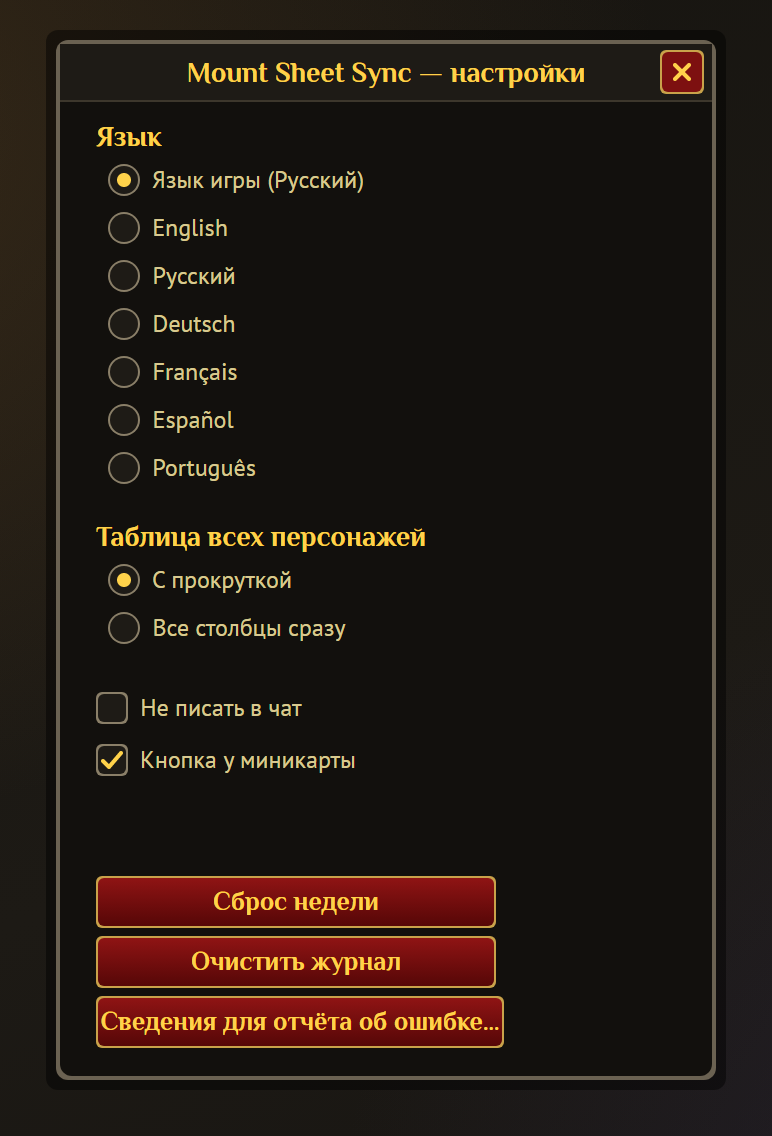
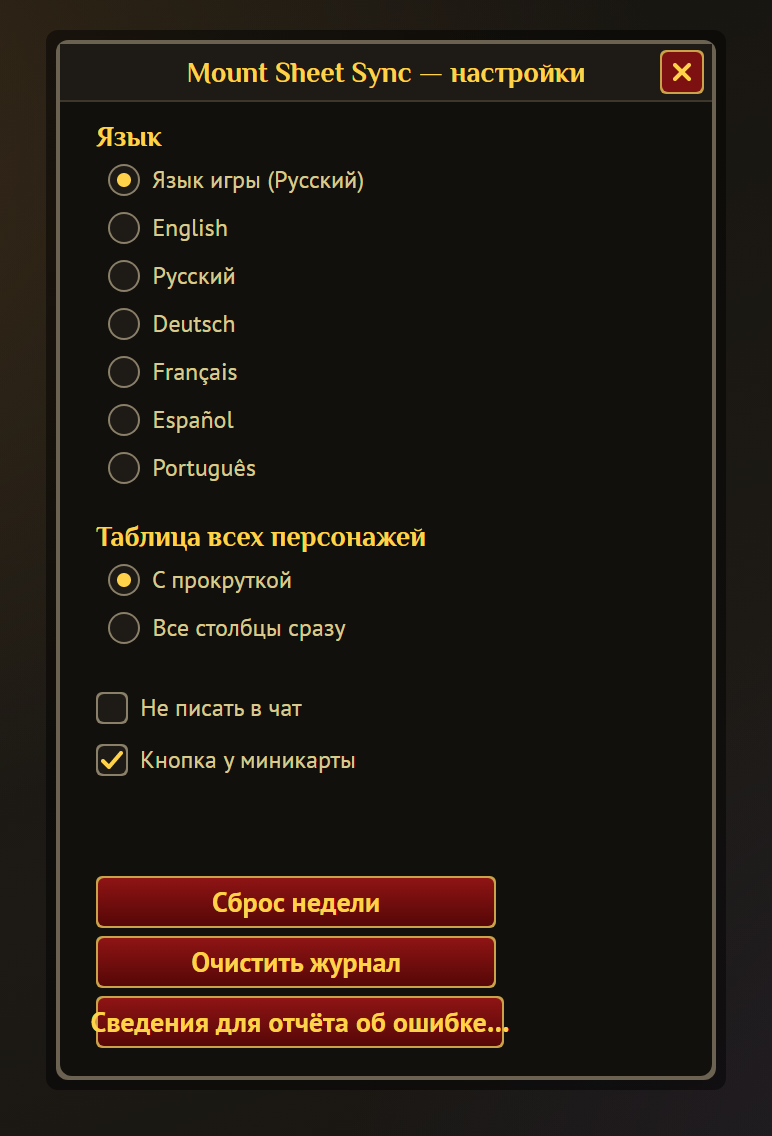
Crisper buttons and bottom line; the line follows the program state
Philosopher Bold at 13 px has thin strokes that blurred in game ("K", "t" on
the red button). Buttons and tabs now use PT Sans Bold 14 like the rest of
the window; Philosopher stays in headings. The small font is 12 px instead of
11. The bottom line is rebuilt from the program state whenever the window is
shown or the language changes, instead of only when the window was created,
and the README pictures no longer show the offline look on the usual hint.

Changed region(s): [[0.1244, 0.8935, 0.6528, 0.9243], [0.2487, 0.8319, 0.5285, 0.8627], [0.2798, 0.7702, 0.4974, 0.8011]]

diff --git a/tools/tests/test_offline.py b/tools/tests/test_offline.py
@@ -85,6 +85,13 @@ def window_bits(L, g):
     return broker, (str(hint._text) if hint is not None else None), tip
 
 
+def hint_font():
+    win = g.MountSheetSyncFrame
+    regs = [g.ALL_REGIONS[i] for i in range(1, len(g.ALL_REGIONS) + 1)]
+    small = [r for r in regs if r._type == "FontString" and r._font == "MSSFontSmall" and r._parent is not None and r._parent._uid == win._uid]
+    return small[0]._fontObject if small else None
+
+
 def first_kill_chat(L, g):
     before = len(g.CHAT)
     g.Fire("ENCOUNTER_END", 2423, "Тюремщик", 14, 20, 1)
@@ -112,7 +119,8 @@ check("Data Broker tooltip: one grey offline line, the click hints stay last",
 check("window bottom line: offline, kills remembered", hint is not None and hint.startswith("Офлайн") and "запоминаются" in hint, hint)
 icon = L.eval("rawget")(g.MountSheetSyncFrame, "offlineIcon")
 check("…and it stands out: a warning icon before it, bold orange text with a shadow",
-      icon is not None and str(icon._texture).endswith("UI-Dialog-Icon-AlertNew") and g.MSSFontWarn._shadowOffset is not None, icon and icon._texture)
+      icon is not None and icon._shown and str(icon._texture).endswith("UI-Dialog-Icon-AlertNew") and str(hint_font()) == str(g.MSSFontWarn)
+      and g.MSSFontWarn._shadowOffset is not None, icon and icon._texture)
 check("hover: why (addons can't go online) and when it is checked (login, /reload)",
       tip is not None and tip[0] == "Работа без программы" and any("/reload" in t and "сохранениях игры" in t for t in tip), tip)
 
@@ -125,7 +133,8 @@ check("first kill: the usual «goes to the sheet when you log out…» hint", an
 broker, hint, tip = window_bits(L, g)
 check("no offline line in the tooltip", not any("Офлайн" in t for t in broker), broker)
 check("window bottom line: the usual hint, no hover", hint is not None and hint.startswith("Отметки попадают") and tip is None, (hint, tip))
-check("…quiet: no warning icon", L.eval("rawget")(g.MountSheetSyncFrame, "offlineIcon") is None)
+quiet_icon = L.eval("rawget")(g.MountSheetSyncFrame, "offlineIcon")
+check("…quiet: no warning icon, the small grey font", (quiet_icon is None or not quiet_icon._shown) and str(hint_font()) == str(g.MSSFontSmall))
 
 # ---- the program runs, but has no sheet yet
 L, g, ns, _ = new_game(mark(NOW - 10, sheet=False))

diff --git a/tools/tests/test_addon_left.py b/tools/tests/test_addon_left.py
@@ -533,8 +533,8 @@ end
 MountSheetSyncSheet.generated = MountSheetSyncSheet.generated + 1
 MSS_NS.OnChange()""")
 g.RunTimers()
-screen_hint = [x for x in regions("FontString") if under_window(x) and x._text == ns.L.window_offline][0]
-screen_hint.SetText(screen_hint, ns.L.window_hint)
+L.execute("MSS_SCREEN_STATE_SAVED = MSS_NS.ProgramState; MSS_NS.ProgramState = function() return 'online' end")
+win.ShowProgramState()   # the pictures show a running program: the quiet bottom line
 tabs[0].MockClick(tabs[0]); g.RunTimers()
 dump_layout(win, OUT_LAYOUT)
 LAYOUT_DIR = os.path.dirname(os.path.abspath(OUT_LAYOUT))
@@ -600,7 +600,8 @@ sf = g.MountSheetSyncSettingsFrame
 check("settings window opens for the screenshots", sf is not None and sf._shown)
 dump_layout(sf, os.path.join(LAYOUT_DIR, "layout_settings.json"))
 sf.Hide(sf)
-screen_hint.SetText(screen_hint, ns.L.window_offline)
+L.execute("MSS_NS.ProgramState = MSS_SCREEN_STATE_SAVED")
+win.ShowProgramState()
 L.execute(r"""
 MountSheetSyncSheet.resetAt, MSS_NS.ProgramState = SCREEN_RESET, SCREEN_STATE
 MSS_NS.UsesListWords = function() return false end

diff --git a/docs/reference/decisions.md b/docs/reference/decisions.md
@@ -86,6 +86,6 @@
 - **Данные каталога в аддоне — отложено, не отвергнуто** (05.11.2026): пока без программы аддон остаётся журналом. Часть данных можно будет положить в аддон, но это надо отдельно продумать: какие данные, размер, что не дублировать на Lua.
 - **Названия — на языке аддона, а не таблицы** (аддон 3.0.4, программа 2.10.0): игра отдаёт названия только на своём языке, поэтому для другого языка переводы присылает программа из каталога (русский и английский), остальные языки получают английские. Таблица не меняется, переводится только показ: записи и сопоставление убийств идут по исходным названиям.
 - **Переход с Google на компьютер предлагает перенос** (программа 2.10.0): «Сохранить» с выбранным «На этом компьютере» при готовой таблице спрашивает, перенести ли её; иначе данные начинались заново, и «Не фармлю» терялось — аддон хранит его только до следующего списка. Перенос поверх уже созданных данных откладывает их в `local-data.before-import.json`, а список отправленного берётся от таблицы, поэтому отмеченное только на компьютере отмечается в копии заново.
-- **Окно — на целых пикселях** (аддон 3.0.4): при открытии и после перетаскивания окно ставится на целый пиксель экрана (`SnapToPixels`), а текст на красной кнопке и строка «Офлайн» — с тенью: иначе буквы мутные. Масштаб интерфейса не меняем: это настройка игрока.
+- **Окно — на целых пикселях** (аддон 3.0.4): при открытии и после перетаскивания окно ставится на целый пиксель экрана (`SnapToPixels`), а текст на красной кнопке и строка «Офлайн» — с тенью: иначе буквы мутные. Кнопки и вкладки — PT Sans Bold 14, а не Philosopher 13: у него тонкие штрихи («К», «т») в игре мылились; Philosopher остался в заголовках. Мелкий шрифт — 12 px вместо 11. Масштаб интерфейса не меняем: это настройка игрока.
 - **Вход внутри другой зоны — в два шага** (аддон 3.0.4): игра показывает вход в «Душу Дракона» только на карте Пещер Времени, и вести к нему издалека она не может. Поэтому Ctrl + щелчок ставит метку у Пещер Времени на карте Танариса, а когда игрок в них вошёл, аддон сам переключает путь на вход — один щелчок вместо меню (решение пользователя). Свою цель игрока аддон не перехватывает.
 - **Вернул персонажа — вернулись его отметки этой недели** (программа 2.10.0): новые листы пустые, а записи уже числятся отправленными, и аддон навсегда показывал бы «убит, ждёт обновления». Повтор — тем же `again`, что и после сброса недели, поэтому попытки не удваиваются.

diff --git a/CHANGELOG-addon.md b/CHANGELOG-addon.md
@@ -4,7 +4,7 @@ The addon and the Windows program are released separately; the program's changes
 
 ## 3.0.4
 - Ctrl + click on a raid whose entrance is inside another zone (Dragon Soul in the Caverns of Time) leads to the Caverns of Time in Tanaris, and once you are inside, on to the entrance by itself. If you pick another target meanwhile, the addon leaves it alone. Entrances are looked for on every map, and by name too, so more dungeons are found.
-- The offline line at the bottom of the window stands out: a warning icon and bold orange text. The window sits on whole screen pixels and the button text has a shadow, so the letters are crisper.
+- The offline line at the bottom of the window stands out: a warning icon and bold orange text. The window sits on whole screen pixels, the buttons and tabs use the same sans font as the rest at 14 px, and the bottom line is a size larger, so the letters are crisper.
 - All characters: a character who doesn't farm a row (no tick in “Farming”, or no such group) now gets a faint cross instead of the same dash as a kill this week. The row tooltip names who killed it this week and who doesn't farm it.
 - Mount, boss and place names follow the addon's language, not the sheet's. In the game's language they come from the game itself; in another one from translations the program sends (English and Russian; other languages get English). Needs the program 2.10.0.
 - Without a Google sheet the addon talks about the list: the button is “Save marks”, and no text mentions a sheet. With a sheet everything stays as it was, including “Send to sheet”.
